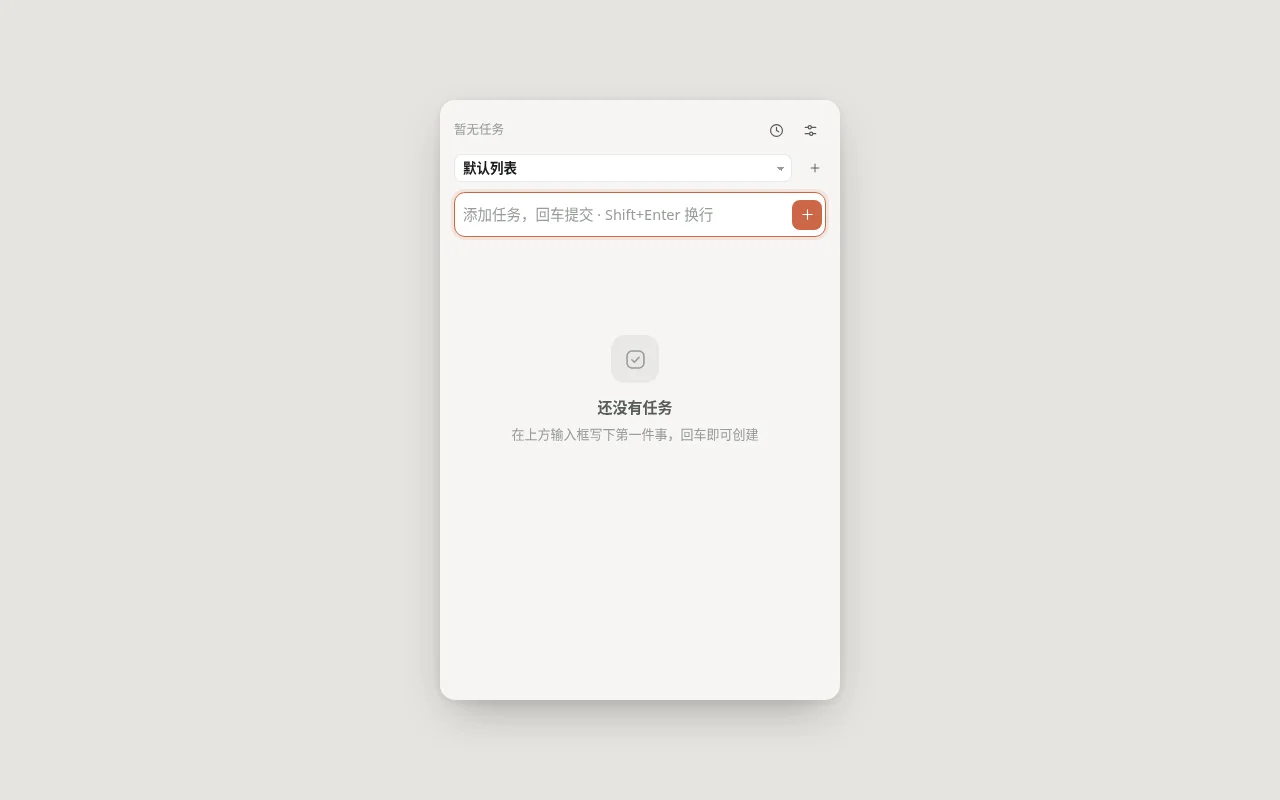
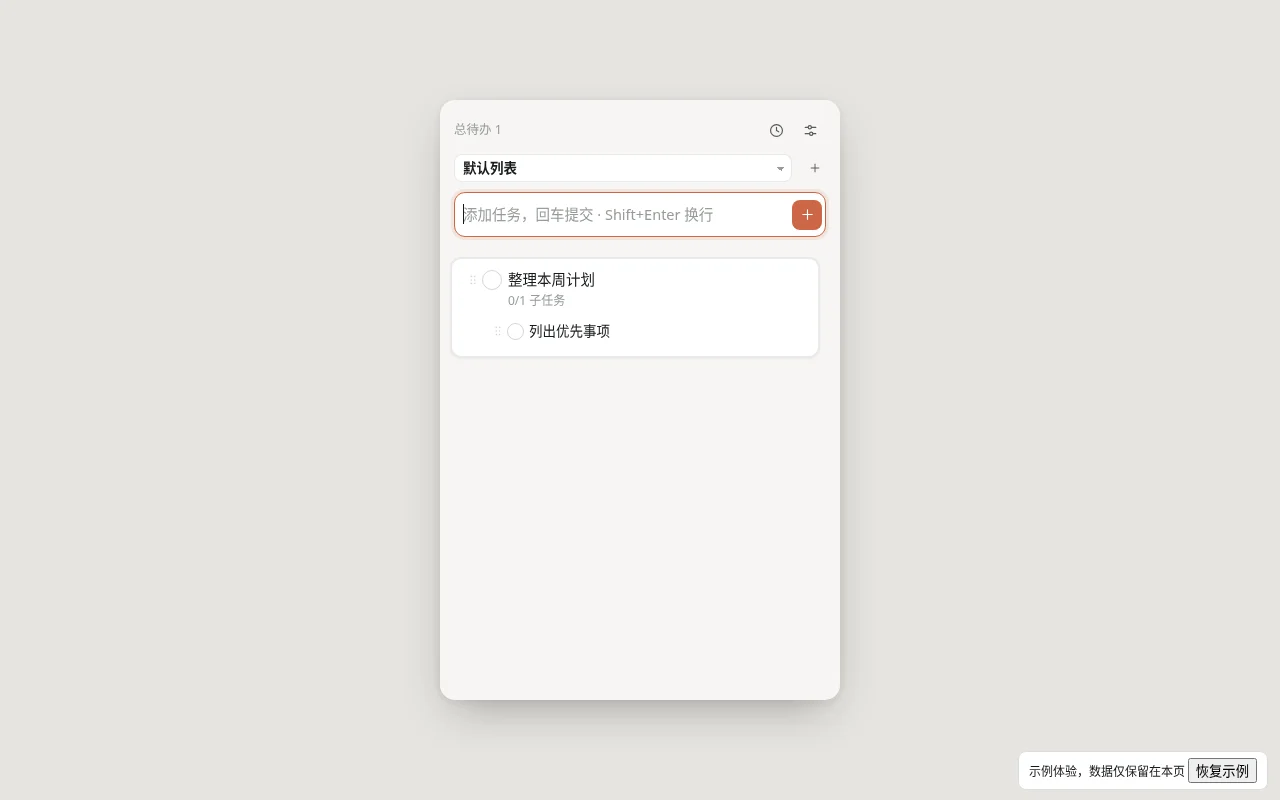
Improve template preview experience

diff --git a/wb1024-c221-ed6842d1/showcase/preview.html b/wb1024-c221-ed6842d1/showcase/preview.html
@@ -1193,7 +1193,7 @@ html.embedded .toast { bottom: 20px; }
 
   
   
-<script>'use strict';
+<div style="position:fixed;right:12px;bottom:10px;z-index:10000;background:#fff;border:1px solid #ddd;padding:6px 10px;border-radius:8px;font:12px sans-serif">示例体验，数据仅保留在本页 <button id="previewReset" type="button">恢复示例</button></div><script>'use strict';
 
 /* =========================================================
    图片仓库
@@ -1658,41 +1658,7 @@ function save() {
    2) quota   —— 真的写满了（Chrome 约 5MB，本应用数据量远达不到）
    被 block 时自动降级为内存存储，功能可用但关闭即丢，并给出一次明确提示。
 */
-const store = (() => {
-  let usable = false;
-  try {
-    const probe = '__todo_probe__';
-    localStorage.setItem(probe, '1');
-    localStorage.removeItem(probe);
-    usable = true;
-  } catch (e) { usable = false; }
-
-  if (!usable) {
-    let mem = null;
-    return {
-      mode: 'memory',
-      read() { return mem; },
-      write() { return { ok: false, reason: 'blocked' }; },
-      wipe() { mem = null; }
-    };
-  }
-  return {
-    mode: 'local',
-    read() {
-      try { return localStorage.getItem(KEY); } catch (e) { return null; }
-    },
-    write(json) {
-      try {
-        localStorage.setItem(KEY, json);
-        return { ok: true };
-      } catch (e) {
-        const quota = !!e && (e.name === 'QuotaExceededError' || e.code === 22 || e.code === 1014);
-        return { ok: false, reason: quota ? 'quota' : 'blocked' };
-      }
-    },
-    wipe() { try { localStorage.removeItem(KEY); } catch (e) { /* noop */ } }
-  };
-})();
+const store = (() => { let mem = null; return {mode:'local', read(){return mem}, write(v){mem=v;return {ok:true}}, wipe(){mem=null}}; })();
 
 const STORE_TEXT = {
   blocked: {
@@ -3606,4 +3572,7 @@ function init() {
 }
 
 init();
+function resetExample(){ store.wipe(); state=bindListScope(defaults()); state.tasks=[normalizeTask({id:'example-1',title:'整理本周计划',listId:DEFAULT_LIST_ID,colId:DEFAULT_COL_ID,subs:[{id:'example-sub',title:'列出优先事项'}]})]; syncSwitch(); syncTheme(); render(); }
+resetExample(); document.getElementById('previewReset').addEventListener('click',resetExample);
+for (const id of ['btnExportFile','btnExportCopy']) { const el=document.getElementById(id); if(el){el.disabled=true;el.title='安装后可导出';} }
 </script></body></html>
